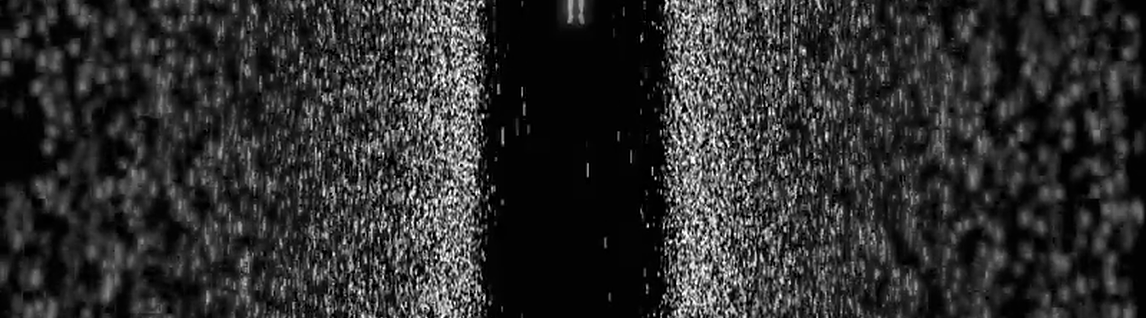
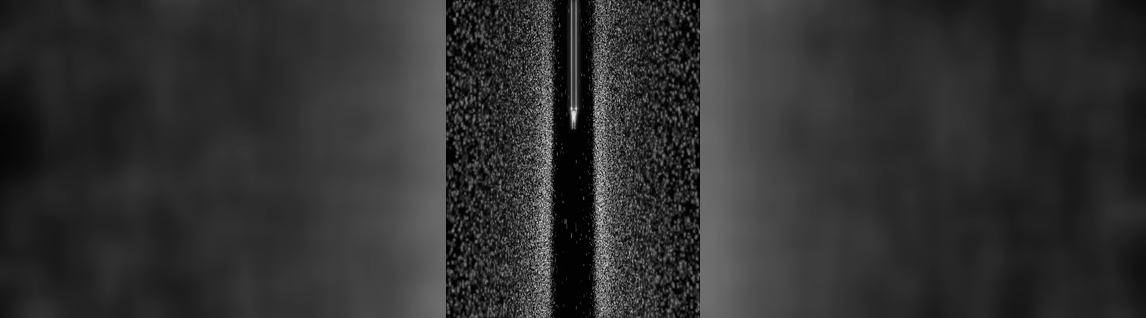
Keep TwiGal 01 subject visible in Dock crop

diff --git a/scripts/prepare_twigal_batch.py b/scripts/prepare_twigal_batch.py
@@ -43,14 +43,32 @@ def prepare(source, output):
     count = COUNT if animated else 1
     # Aspect-fill from the uncropped original. No baked capsule, padding, tint,
     # or transparent corners: the unchanged native Dock supplies its exact mask.
-    filters = ("fps=6," if animated else "") + (
-        "scale=1146:318:force_original_aspect_ratio=increase:flags=lanczos,"
-        "crop=1146:318,setsar=1,format=rgb24")
+    filter_complex = None
+    if theme_id == "twigal-mp4-01":
+        # This source is extremely vertical and its subject disappears under a
+        # conventional center aspect-fill. Preserve the full-height subject in
+        # the center and extend the same moving frame softly to both sides.
+        filters = None
+        filter_complex = (
+            "[0:v]fps=6,split=2[bg][fg];"
+            "[bg]scale=1146:318:force_original_aspect_ratio=increase:flags=lanczos,"
+            "crop=1146:318,gblur=sigma=24[back];"
+            "[fg]scale=-2:318:flags=lanczos[front];"
+            "[back][front]overlay=(W-w)/2:0,setsar=1,format=rgb24[out]"
+        )
+    else:
+        filters = ("fps=6," if animated else "") + (
+            "scale=1146:318:force_original_aspect_ratio=increase:flags=lanczos,"
+            "crop=1146:318,setsar=1,format=rgb24")
     command = ["ffmpeg", "-nostdin", "-v", "error", "-xerror"]
     if animated:
         command += ["-stream_loop", "-1"]
-    command += ["-i", str(source), "-an", "-vf", filters, "-frames:v", str(count),
-        "-threads", "1", str(frame_dir / "frame%02d.png")]
+    command += ["-i", str(source), "-an"]
+    if filter_complex:
+        command += ["-filter_complex", filter_complex, "-map", "[out]"]
+    else:
+        command += ["-vf", filters]
+    command += ["-frames:v", str(count), "-threads", "1", str(frame_dir / "frame%02d.png")]
     run(command)
     frames = sorted(frame_dir.glob("frame*.png"))
     assert len(frames) == count, (source, len(frames))
